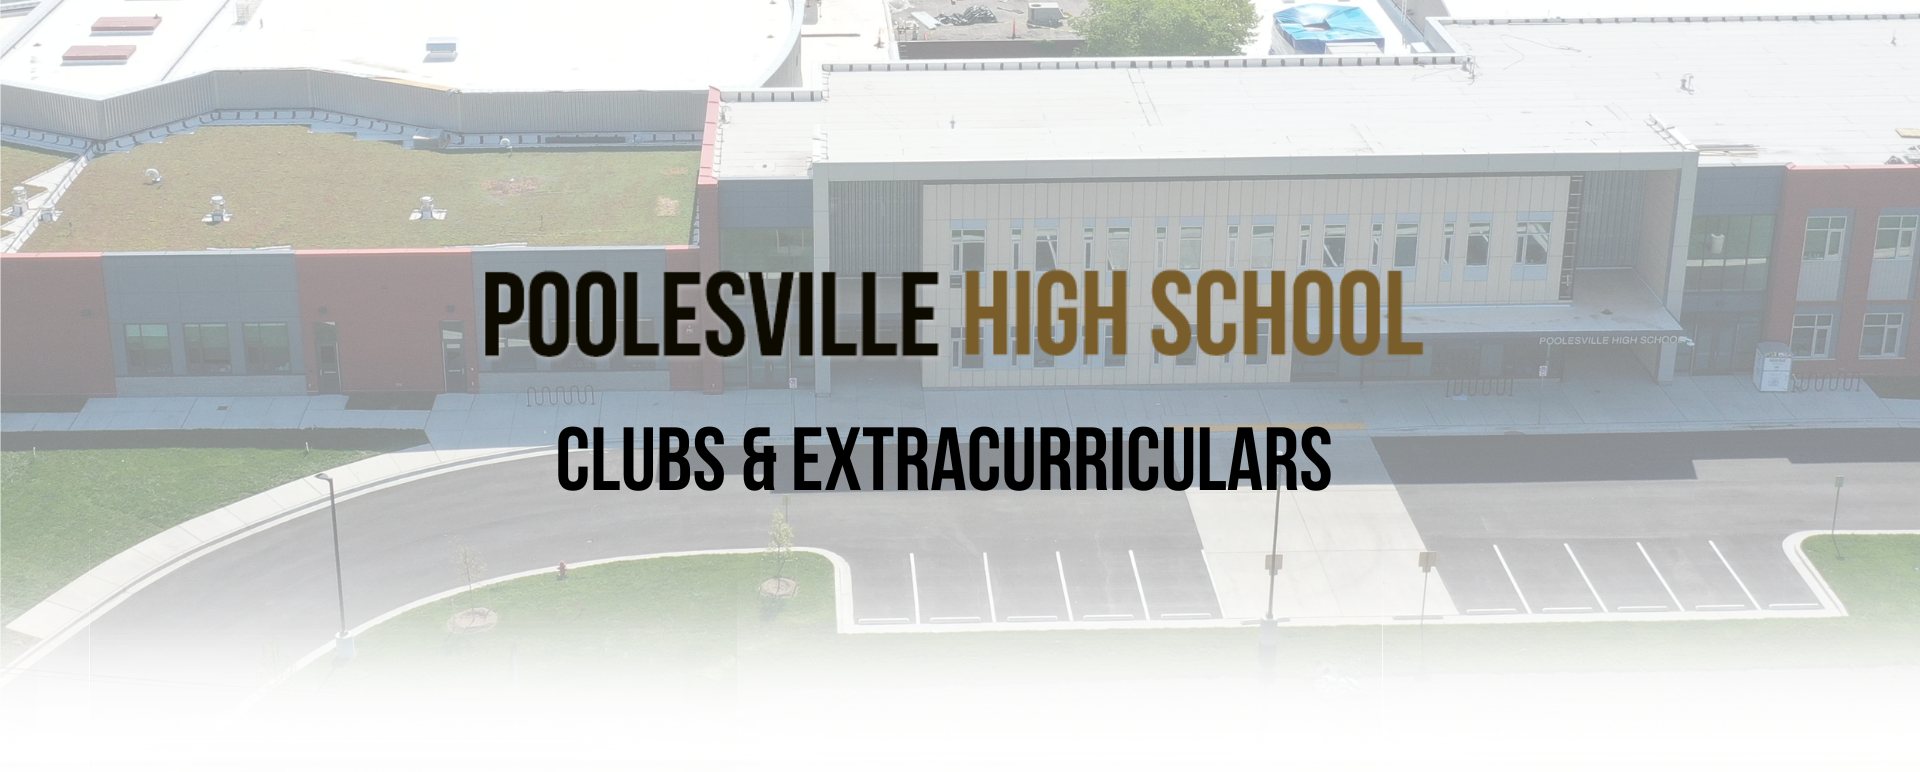
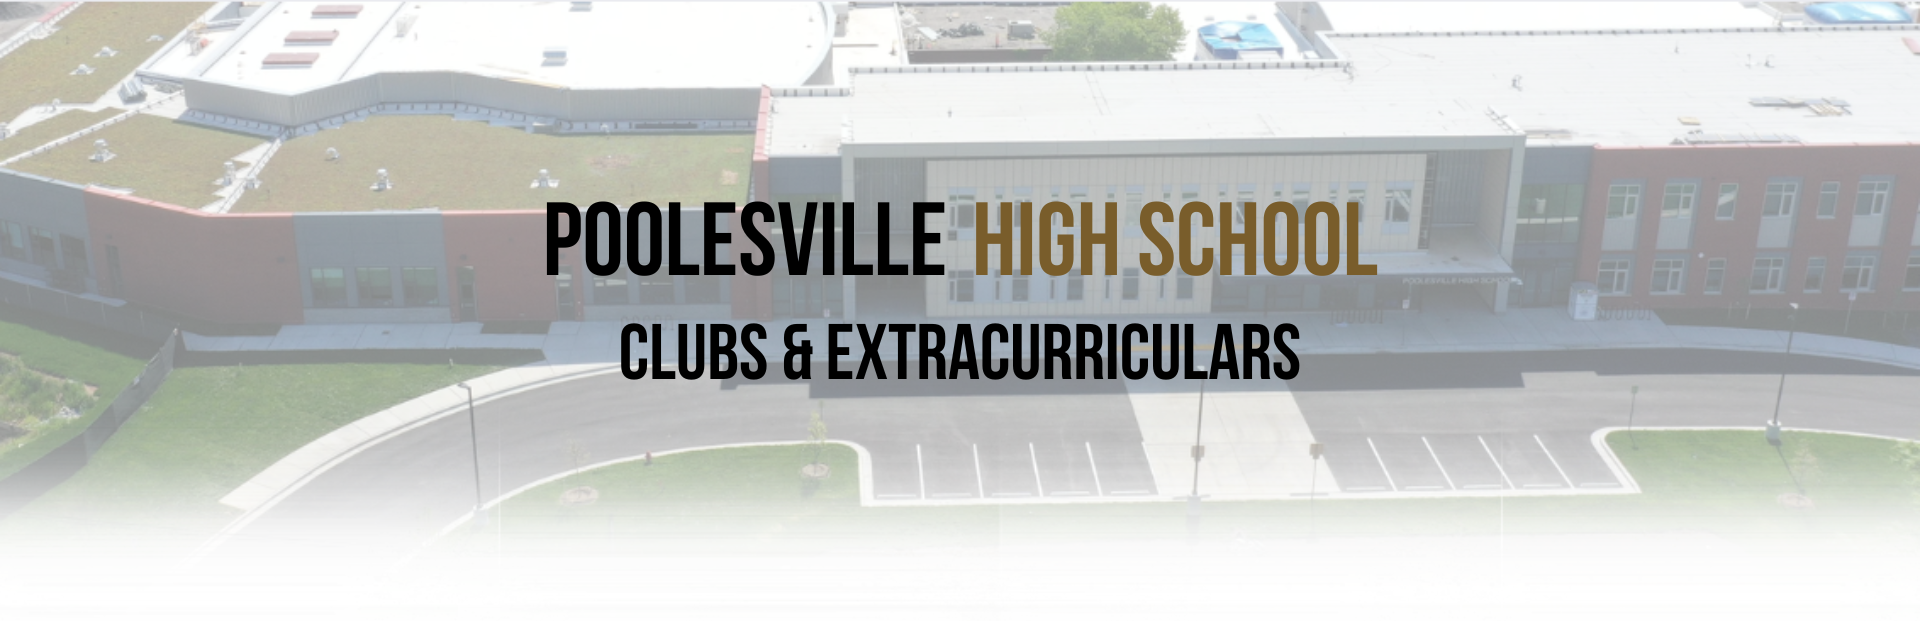
Update #13
No duplicate applications, fixed header image, deleted unnecessary files

diff --git a/app/ui/forms/applicationForm.tsx b/app/ui/forms/applicationForm.tsx
@@ -15,7 +15,7 @@ interface FormValues {
     contactName: string;
     contactEmail: string;
     meeting_days_time: string;
-    meeting_location: number;
+    meeting_location: string;
     additional_info: string;
 }
 
@@ -37,7 +37,7 @@ const validationChecks = yup.object({
         'Please enter a valid MCPS email.',
         (value) => typeof value === 'string' && (value.includes('@mcpsmd.net') || value.includes('@mcpsmd.org'))),
     meeting_days_time: yup.string().required("Please enter the meeting days/times."),
-    meeting_location: yup.number().max(2800, "Please enter a valid room number").min(1000, "Please enter a valid room number.").required("Please enter the meeting location (room number)."),
+    meeting_location: yup.string(),
     additional_info: yup.string(),
 });
 
@@ -53,7 +53,7 @@ const AppForm: React.FC = () => {
         contactName:  "",
         contactEmail: "",
         meeting_days_time: "",
-        meeting_location: 0,
+        meeting_location: "",
         additional_info:  "",  
     };
    
@@ -80,23 +80,25 @@ const AppForm: React.FC = () => {
       alert(`Error: ${error.message || 'Submission to Clubs API failed.'}`);
       return; 
     }
+    
+    const result = await res.json();
+    if(result.inserted){
+        const emailResponse = await fetch('/api/sendEmail', {
+        method: 'POST',
+        headers: {
+            'Content-Type': 'application/json',
+        },
+        body: JSON.stringify(payload),
+        });
 
-    const emailResponse = await fetch('/api/sendEmail', {
-      method: 'POST',
-      headers: {
-        'Content-Type': 'application/json',
-      },
-      body: JSON.stringify(payload),
-    });
-
-    if (!emailResponse.ok) {
-      const error = await emailResponse.json();
-      console.error('Email error:', error);
-      alert(`Warning: Club saved, but email failed to send. (${error.message || 'Unknown error'})`);
-    } else {
-      console.log("Email Sent!");
+        if (!emailResponse.ok) {
+        const error = await emailResponse.json();
+        console.error('Email error:', error);
+        alert(`Warning: Club saved, but email failed to send. (${error.message || 'Unknown error'})`);
+        } else {
+        console.log("Email Sent!");
+        }
     }
-
     alert('Form submitted successfully!');
     resetForm();
   } catch (err) {
@@ -159,7 +161,7 @@ const AppForm: React.FC = () => {
                         <ErrorMessage name="meeting_days_time" component="div" className="text-red-500"/>
                         
                         <h1>Meeting Location (Room Number)*</h1>
-                        <Field name="meeting_location" placeholder="Enter club meeting location (ex. Room 1000)"/>
+                        <Field name="meeting_location" placeholder="Enter club meeting location (ex. 'SMCS Hub' or 'Room 2720')"/>
                         <ErrorMessage name="meeting_location" component="div" className="text-red-500"/>
                         
                         <h1>Additional Information (Website, Social Media, etc.)</h1>

diff --git a/app/ui/dashboard/pending-card.tsx b/app/ui/dashboard/pending-card.tsx
@@ -6,7 +6,7 @@ import Link from 'next/link';
 export default function PendingCard({ club }: { club: any }) {
   const [approved, setApproved] = useState(false);
 
-  const handleSubmit = async (e: React.FormEvent) => {
+  const handleApproval = async (e: React.FormEvent) => {
     e.preventDefault();
 
     try {
@@ -16,7 +16,7 @@ export default function PendingCard({ club }: { club: any }) {
         body: JSON.stringify({ club_name: club.club_name }),
       });
 
-      if (!response.ok) throw new Error('Approval failed');
+      if (!response.ok) throw new Error('Club approval failed');
 
       alert('Club approved successfully!');
       setApproved(true);
@@ -26,7 +26,27 @@ export default function PendingCard({ club }: { club: any }) {
     }
   };
 
-  if (approved) return null; // Optional: hide card once approved
+  const handleRejection = async (e: React.FormEvent) => {
+    e.preventDefault();
+
+    try {
+      const response = await fetch('/api/reject', {
+        method: 'POST',
+        headers: { 'Content-Type': 'application/json' },
+        body: JSON.stringify({ club_name: club.club_name }),
+      });
+
+      if (!response.ok) throw new Error('Club rejection failed');
+
+      alert('Club rejected successfully!');
+      setApproved(true);
+    } catch (err) {
+      console.error('Submission error:', err);
+      alert('An error occurred.');
+    }
+  };
+
+  if (approved) return null;
 
   return (
     <div className='text-[16px] text-black bg-gradient-to-b from-white via-yellow-300 to-yellow-500 border-4 border-yellow-500 px-7 pt-7 pb-10 rounded-xl overflow-hidden break-words'>
@@ -77,17 +97,28 @@ export default function PendingCard({ club }: { club: any }) {
           </span>
         </p>
       )}
-
-      <form onSubmit={handleSubmit}>
-        <div className="w-[100%] mt-6 flex justify-center">
+      <div  className="w-[100%] mt-6 flex justify-center">
+      <form onSubmit={handleApproval}>
+        <div>
           <button
             type="submit"
-            className="flex items-center mb-[20px] mt-[30px] justify-center rounded-md bg-yellow-100 px-6 py-4 text-sm font-medium hover:bg-yellow-200"
+            className="flex items-center mb-[20px] mr-[15px] mt-[30px] justify-center rounded-md bg-yellow-100 px-6 py-4 text-sm font-medium hover:bg-yellow-200"
           >
             Approve
           </button>
         </div>
       </form>
+      <form onSubmit={handleRejection}>
+        <div>
+          <button
+            type="submit"
+            className="flex items-center mb-[20px] ml-[15px] mt-[30px] justify-center rounded-md bg-yellow-100 px-8 py-4 text-sm font-medium hover:bg-yellow-200"
+          >
+            Reject
+          </button>
+        </div>
+      </form>
+      </div>
     </div>
   );
 }

diff --git a/app/ui/navigation/sidenav.tsx b/app/ui/navigation/sidenav.tsx
@@ -2,7 +2,7 @@
 import Link from 'next/link';
 import NavLinks from '@/app/ui/navigation/links/nav-links';
 import ClubHubLogo from '@/app/ui/club-hub-logo';
-import { ArrowLeftStartOnRectangleIcon, ArrowRightEndOnRectangleIcon } from '@heroicons/react/24/outline';
+import { ArrowLeftStartOnRectangleIcon, UserCircleIcon,ArrowRightEndOnRectangleIcon } from '@heroicons/react/24/outline';
 import { useRouter } from 'next/navigation'
 
 export default function SideNav() {
@@ -29,6 +29,14 @@ export default function SideNav() {
       <div className="flex grow flex-row justify-between space-x-2 md:flex-col md:space-x-0 md:space-y-2">
         <NavLinks />
         <div className="hidden h-auto w-full grow rounded-md bg-gray-50 md:block"></div>
+       <Link
+            key="adminpanel"
+            href="/dashboard/approval"
+            className="flex h-[48px] w-full grow items-center justify-center gap-2 rounded-md bg-gray-50 p-3 text-sm font-medium hover:bg-yellow-100 hover:text-yellow-700 md:flex-none md:justify-start md:p-2 md:px-3"
+          >
+            <UserCircleIcon className="w-6" />
+            <p className="hidden md:block">Admin Panel</p>
+          </Link>
        <Link
             key="login"
             href="/login"

diff --git a/app/api/clubs/route.ts b/app/api/clubs/route.ts
@@ -16,14 +16,17 @@ export async function POST(req: Request) {
 
     const query = `
       INSERT INTO club_list (club_name, studentName, studentEmail, description, category, contactName, contactEmail, meeting_days_time, meeting_location, additional_info, status)
-      VALUES ($1, $2, $3, $4, $5, $6, $7, $8, $9, $10, $11) RETURNING *;
+      VALUES ($1, $2, $3, $4, $5, $6, $7, $8, $9, $10, $11)
+      ON CONFLICT (club_name) DO NOTHING
+      RETURNING *;
     `;
 
     const values = [club_name, studentName, studentEmail, description, category, contactName, contactEmail, meeting_days_time, meeting_location, additional_info, status];
-
     const result = await pool.query(query, values);
-
-    return NextResponse.json({ success: true, data: result.rows[0] });
+    if(result.rows.length === 0) {
+      return NextResponse.json({ success: true, inserted: false});
+    }
+    return NextResponse.json({ success: true, inserted: true, data: result.rows[0] });
   } catch (error) {
     const errorMessage = error instanceof Error ? error.message : 'An unknown error occurred';
     return NextResponse.json({ success: false, error: errorMessage }, { status: 500 });

diff --git a/app/api/reject/route.ts b/app/api/reject/route.ts
@@ -1,0 +1,31 @@
+import { Pool } from 'pg';
+import { NextResponse } from 'next/server';
+
+const pool = new Pool({
+  connectionString: process.env.DATABASE_URL,
+  ssl: {
+    rejectUnauthorized: false, 
+  },
+});
+
+export async function POST(req: Request) {
+  try {
+    const body = await req.json();
+
+    const {club_name} = body;
+
+    const query = `
+      DELETE FROM club_list
+      WHERE club_name = $1;
+    `;
+
+    const values = [club_name];
+
+    const result = await pool.query(query, values);
+
+    return NextResponse.json({ success: true, data: result.rows[0] });
+  } catch (error) {
+    const errorMessage = error instanceof Error ? error.message : 'An unknown error occurred';
+    return NextResponse.json({ success: false, error: errorMessage }, { status: 500 });
+  }
+}

diff --git a/app/api/auth/login/route.ts b/app/api/auth/login/route.ts
@@ -5,12 +5,12 @@ export async function POST(request: NextRequest) {
   try {
     const { username, password } = await request.json()
 
-    // Check credentials against environment variables
+    // check credentials against env variables
     if (
       username === process.env.TEACHER_USERNAME &&
       password === process.env.TEACHER_PASSWORD
     ) {
-      // Set authentication cookie
+      // set authentication cookie
       const cookieStore = await cookies()
       cookieStore.set('teacher-auth', 'authenticated', {
         httpOnly: true,

diff --git a/app/dashboard/layout.tsx b/app/dashboard/layout.tsx
@@ -13,9 +13,9 @@ export default function Layout({ children }: { children: React.ReactNode }) {
                   key="clubhub header"
                   src="/headerImage.png"
                   alt="ClubHub Header Image"
-                  objectFit="contain"
-                  height={300}
-                  width={1400}
+                  style={{objectFit:"cover"}}
+                  height={621}
+                  width={1920}
                   className="w-[100vw] h-[60vh]"
                 ></Image>
 

diff --git a/app/lib/definitions.ts b/app/lib/definitions.ts
@@ -9,7 +9,7 @@ export type Club = {
     contactName: string;
     contactEmail: string;
     meeting_days_time: string;
-    meeting_location: number;
+    meeting_location: string;
     additional_info: string;
 };
 export type Revenue = {
